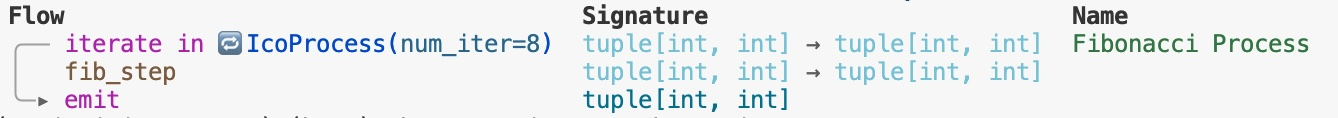
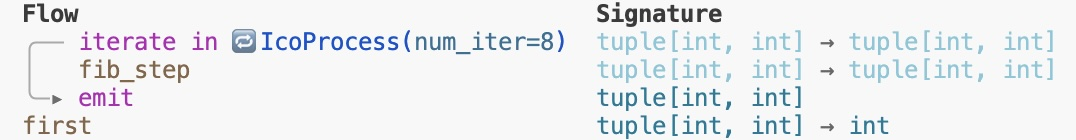
Update toy example (#5)
Update toy example

diff --git a/src/apriori/ico/__init__.py b/src/apriori/ico/__init__.py
@@ -1,0 +1,86 @@
+# core
+from .core.async_operator import IcoAsyncOperator
+from .core.async_stream import IcoAsyncStream
+from .core.batcher import IcoBatcher
+from .core.chain import IcoChain
+from .core.context_operator import IcoContextOperator
+from .core.context_pipeline import IcoContextPipeline
+from .core.epoch import IcoEpoch
+from .core.identity import IcoIdentity
+from .core.node import HasRemoteFlow, IcoNode
+from .core.operator import IcoOperator, operator
+from .core.pipeline import IcoPipeline
+from .core.process import IcoProcess
+
+# core/runtime
+from .core.runtime.exceptions import IcoRuntimeError
+from .core.runtime.monitor import IcoMonitor
+from .core.runtime.node import IcoRuntimeNode
+from .core.runtime.printer import IcoPrinter
+from .core.runtime.progress import IcoProgress
+from .core.runtime.runtime import IcoRuntime
+from .core.runtime.runtime_wrapper import IcoRuntimeWrapper
+from .core.signature import IcoSignature
+from .core.sink import IcoSink
+from .core.source import IcoSource
+from .core.stream import IcoStream
+from .core.tree_utils import TraversalInfo, TreePathIndex, TreeWalker
+
+# describe
+from .describe.describer import describe
+from .describe.options import RendererOptions
+from .describe.plan.options import PlanRendererOptions
+from .describe.rich_style import DescribeStyle
+from .describe.runtime.options import RuntimeRendererOptions
+
+# runtime
+from .runtime.agent.mp.mp_agent import MPAgent
+
+# tools
+from .tools.printer.rich_printer_tool import RichPrinterTool
+from .tools.progress.rich_progress_tool import RichProgressTool, WorkerFlow
+
+__all__ = [
+    # core
+    "HasRemoteFlow",
+    "IcoAsyncOperator",
+    "IcoAsyncStream",
+    "IcoBatcher",
+    "IcoChain",
+    "IcoContextOperator",
+    "IcoContextPipeline",
+    "IcoEpoch",
+    "IcoIdentity",
+    "IcoNode",
+    "IcoOperator",
+    "operator",
+    "IcoPipeline",
+    "IcoProcess",
+    "IcoSignature",
+    "IcoSink",
+    "IcoSource",
+    "IcoStream",
+    "TraversalInfo",
+    "TreePathIndex",
+    "TreeWalker",
+    # core/runtime
+    "IcoMonitor",
+    "IcoPrinter",
+    "IcoProgress",
+    "IcoRuntime",
+    "IcoRuntimeError",
+    "IcoRuntimeNode",
+    "IcoRuntimeWrapper",
+    # runtime
+    "MPAgent",
+    # tools
+    "RichPrinterTool",
+    "RichProgressTool",
+    "WorkerFlow",
+    # describe
+    "describe",
+    "DescribeStyle",
+    "PlanRendererOptions",
+    "RendererOptions",
+    "RuntimeRendererOptions",
+]

diff --git a/src/examples/toy_example.py b/src/examples/toy_example.py
@@ -1,0 +1,21 @@
+from apriori.ico import IcoProcess, operator
+
+Context = tuple[int, int]
+
+
+@operator()
+def fib_step(state: Context) -> Context:
+    a, b = state
+    return (b, a + b)
+
+
+@operator()
+def first(state: Context) -> int:
+    return state[0]
+
+
+fib8 = IcoProcess(fib_step, num_iterations=8) | first
+
+print(fib8((0, 1)))  # 21
+
+fib8.describe()

diff --git a/README.md b/README.md
@@ -23,17 +23,28 @@ At its core, ICO formalizes a simple pattern:
 Each step is a typed operator that composes into pipelines, runs locally or in parallel, and remains fully inspectable at runtime.
 
 ## 🚀 Quick Demo
+A Fibonacci toy example showing how ICO models iterative stateful computation as a composable flow.
 
 ```python
-from apriori.ico.core.process import IcoProcess
+from apriori.ico import IcoProcess, operator
 
-# Fibonacci as an iterative process
-def fib_step(state: tuple[int, int]) -> tuple[int, int]:
-    return (state[1], state[0] + state[1])
+Context = tuple[int, int]
 
-fib_process = IcoProcess(fib_step, num_iterations=8)
-result = fib_process((0, 1))
-print(result)  # (21, 34) - 8th Fibonacci number
+
+@operator()
+def fib_step(state: Context) -> Context:
+    a, b = state
+    return (b, a + b)
+
+
+@operator()
+def first(state: Context) -> int:
+    return state[0]
+
+
+fib8 = IcoProcess(fib_step, num_iterations=8) | first
+
+print(fib8((0, 1)))  # 21
 
 ```
 
@@ -245,6 +256,6 @@ Apache License 2.0 - see [LICENSE](LICENSE) file for details.
 
 **Happy Coding with ICO! ☺**
 
-[Documentation](docs/) • [Examples](examples/) • [Discussions](https://github.com/apriori3d/ico/discussions)
+[Documentation](docs/) • [Examples](src/examples/) • [Discussions](https://github.com/apriori3d/ico/discussions)
 
 </div>
